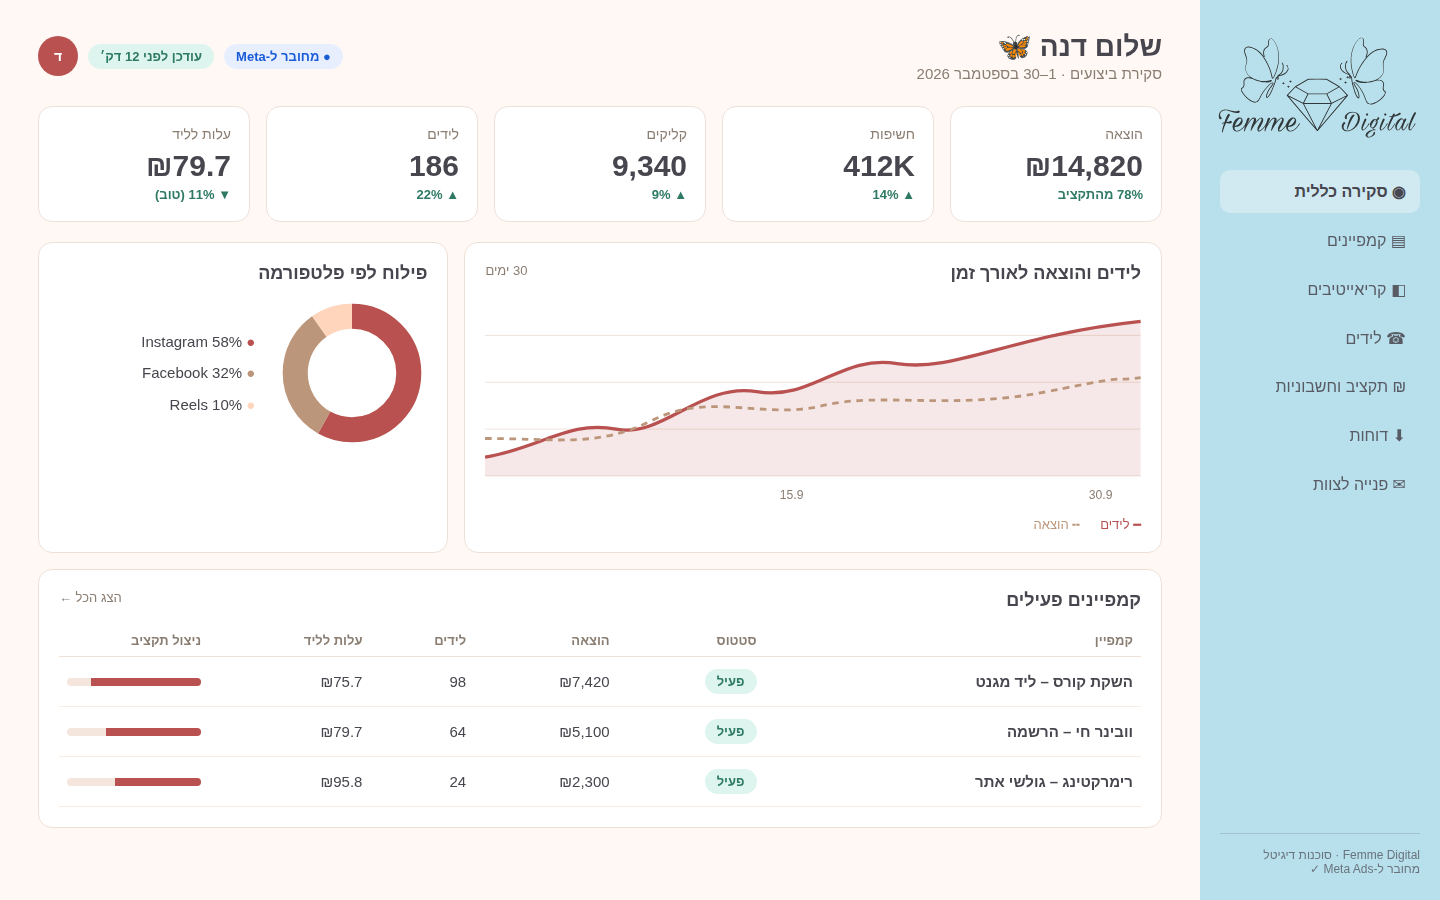
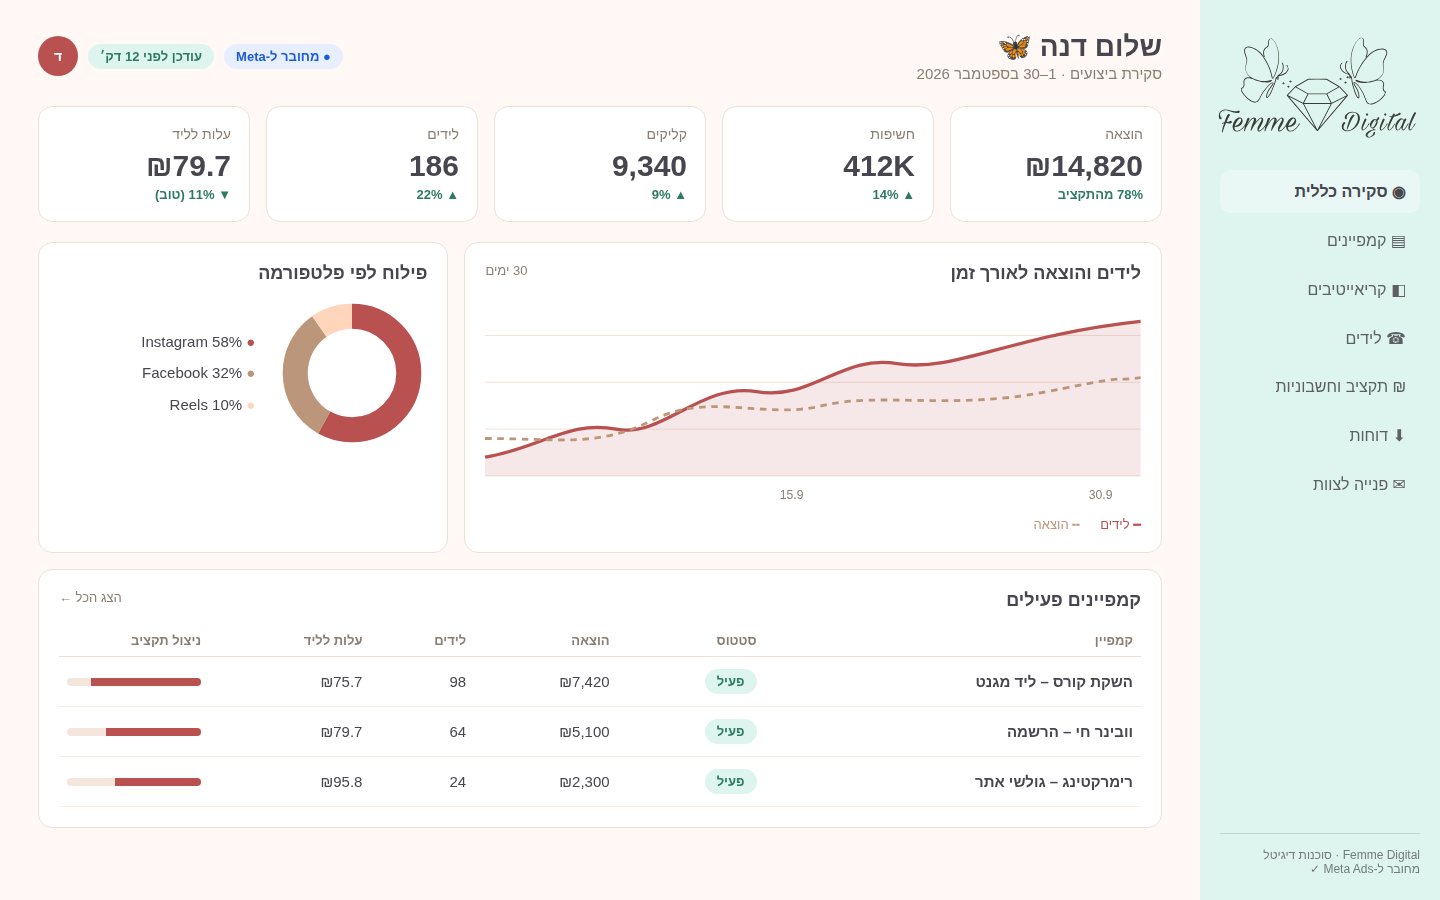
Use brand mint sidebar in portal mockups
Claude-Session: https://claude.ai/code/session_01SHgaQ2tZapowtJVSgU9cgx

Changed region(s): [[0.8125, 0.0, 1.0, 1.0]]

diff --git a/mockups/portal.html b/mockups/portal.html
@@ -19,7 +19,7 @@
 .box .btn{width:100%;margin-top:26px}.pw{margin-top:22px;text-align:center;color:var(--mut);font-size:13px}
 /* app */
 .app{display:grid;grid-template-columns:240px 1fr;height:100%}
-.side{background:#b8dfec;color:#47454d;padding:28px 20px}.side .logo{margin-bottom:30px}
+.side{background:#ddf5ee;color:#47454d;padding:28px 20px}.side .logo{margin-bottom:30px}
 .side a{display:flex;gap:12px;padding:12px 14px;border-radius:10px;margin-bottom:6px;font-size:16px;opacity:.85}.side a.on{background:#ffffff59;opacity:1;font-weight:700}
 .side .pam{position:absolute;bottom:24px;font-size:12px;opacity:.7;width:200px;border-top:1px solid #47454d40;padding-top:14px}
 .main{padding:30px 38px;overflow:hidden}
